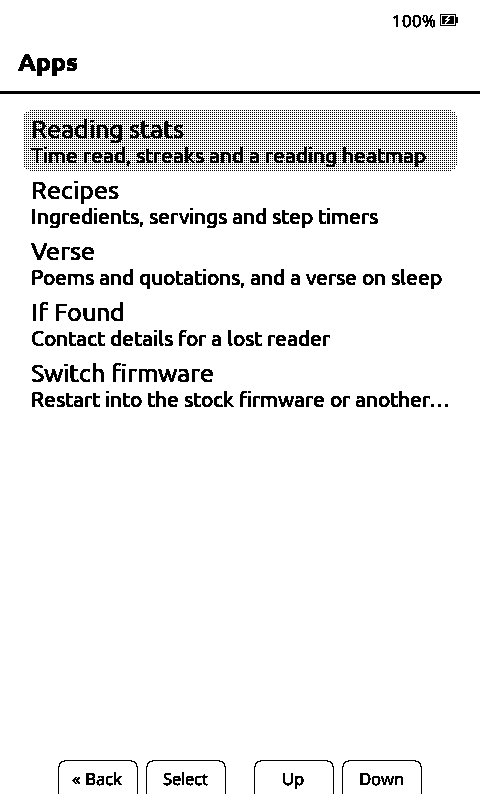
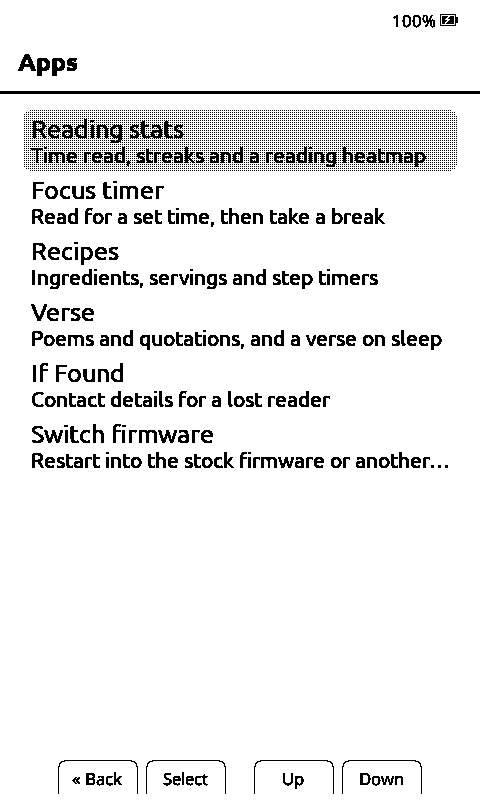
feat(sleep): owner details on every sleep screen
New Display setting puts the first two lines of the If Found note across
the top of any sleep screen. Sleep overlays (this and the stats card) now
share one module; with either on, pictures render in black and white so the
overlay stays crisp. Fixes include grouping that clang-format 21 and 22
disagreed on.

Size: +1,750 B flash.

diff --git a/src/activities/boot_sleep/SleepActivity.cpp b/src/activities/boot_sleep/SleepActivity.cpp
@@ -26,7 +26,6 @@
 #include "CrossPointState.h"
 #include "activities/reader/ReaderUtils.h"
 #include "apps/inkverse/SleepVerse.h"
-#include "apps/stats/SleepStatsCard.h"
 #include "components/UITheme.h"
 #include "fontIds.h"
 #include "images/Logo120.h"
@@ -553,12 +552,13 @@ void SleepActivity::onEnter() {
     GUI.drawPopup(renderer, tr(STR_ENTERING_SLEEP));
   }
 
-  statsCard = SETTINGS.sleepScreen == CrossPointSettings::SLEEP_SCREEN_MODE::CUSTOM_STATS;
+  overlays = inkhome::sleep::current(SETTINGS.sleepScreen == CrossPointSettings::SLEEP_SCREEN_MODE::CUSTOM_STATS);
   switch (SETTINGS.sleepScreen) {
     case (CrossPointSettings::SLEEP_SCREEN_MODE::CUSTOM_STATS):
       return renderCustomSleepScreen();
     case (CrossPointSettings::SLEEP_SCREEN_MODE::VERSE):
       inkverse::drawSleepVerse(renderer);
+      inkhome::sleep::draw(renderer, overlays);
       renderer.displayBuffer(HalDisplay::HALF_REFRESH);
       return;
     case (CrossPointSettings::SLEEP_SCREEN_MODE::BLANK):
@@ -605,7 +605,7 @@ void SleepActivity::renderCustomSleepScreen() const {
   // Inkhome: Xteink .xth/.xtg pictures (including the stock app's /Pushed Images) take turns with BMPs.
   std::string xthPath;
   if (inkhome::wallpaper::pickXth(xthPath, !selectedPath.empty()) &&
-      inkhome::wallpaper::drawXth(renderer, xthPath, statsCard)) {
+      inkhome::wallpaper::drawXth(renderer, xthPath, overlays)) {
     return;
   }
 
@@ -648,7 +648,7 @@ void SleepActivity::renderDefaultSleepScreen() const {
   if (SETTINGS.sleepScreen != CrossPointSettings::SLEEP_SCREEN_MODE::LIGHT) {
     renderer.invertScreen();
   }
-  if (statsCard) inkhome::stats::drawSleepCard(renderer);
+  inkhome::sleep::draw(renderer, overlays);
 
   renderer.displayBuffer(HalDisplay::HALF_REFRESH);
 }
@@ -666,7 +666,7 @@ void SleepActivity::renderBitmapSleepScreen(const Bitmap& bitmap, const bool pre
   LOG_DBG("SLP", "drawing to %d x %d", x, y);
   if (!preserveBackground) renderer.clearScreen();
 
-  const bool hasGreyscale = !statsCard && bitmap.hasGreyscale() &&
+  const bool hasGreyscale = !overlays.any() && bitmap.hasGreyscale() &&
                             (preserveBackground || SETTINGS.sleepScreenCoverFilter ==
                                                        CrossPointSettings::SLEEP_SCREEN_COVER_FILTER::NO_FILTER);
 
@@ -679,7 +679,7 @@ void SleepActivity::renderBitmapSleepScreen(const Bitmap& bitmap, const bool pre
       SETTINGS.sleepScreenCoverFilter == CrossPointSettings::SLEEP_SCREEN_COVER_FILTER::INVERTED_BLACK_AND_WHITE) {
     renderer.invertScreen();
   }
-  if (statsCard) inkhome::stats::drawSleepCard(renderer);
+  inkhome::sleep::draw(renderer, overlays);
 
   const bool absolute = hasGreyscale && renderer.grayscaleCapabilities(sleepGrayscaleMode(renderer)).supported();
   if (absolute) {

diff --git a/src/inkhome/SleepOverlays.cpp b/src/inkhome/SleepOverlays.cpp
@@ -1,0 +1,67 @@
+#include "SleepOverlays.h"
+
+#include <GfxRenderer.h>
+#include <I18n.h>
+
+#include <algorithm>
+#include <string>
+
+#include "CrossPointSettings.h"
+#include "apps/iffound/OwnerNote.h"
+#include "apps/stats/SleepStatsCard.h"
+#include "fontIds.h"
+
+namespace inkhome::sleep {
+
+namespace {
+
+constexpr int PADDING = 10;
+constexpr int MAX_LINES = 2;
+
+// "If found: <first line>" plus the next non-empty line, in a white band
+// with a rule under it, across the top of the screen.
+void drawOwnerStrip(GfxRenderer& renderer) {
+  const std::string note = iffound::ownerNote();
+  std::string lines[MAX_LINES];
+  int count = 0;
+  size_t pos = 0;
+  while (pos < note.size() && count < MAX_LINES) {
+    size_t end = note.find('\n', pos);
+    if (end == std::string::npos) end = note.size();
+    std::string line = note.substr(pos, end - pos);
+    pos = end + 1;
+    if (line.find_first_not_of(" \t") == std::string::npos) continue;
+    lines[count++] = std::move(line);
+  }
+  if (count == 0) return;
+
+  const int width = renderer.getScreenWidth();
+  const int lineHeight = renderer.getLineHeight(SMALL_FONT_ID);
+  const int height = PADDING * 2 + lineHeight * count;
+  renderer.fillRect(0, 0, width, height, false);
+  renderer.drawLine(0, height, width, height);
+  std::string first = std::string(tr(STR_OWNER_STRIP_PREFIX)) + " " + lines[0];
+  for (int i = 0; i < count; ++i) {
+    const std::string text = renderer.truncatedText(SMALL_FONT_ID, (i == 0 ? first : lines[i]).c_str(),
+                                                    width - PADDING * 2, i == 0 ? EpdFontFamily::BOLD
+                                                                                : EpdFontFamily::REGULAR);
+    renderer.drawCenteredText(SMALL_FONT_ID, PADDING + i * lineHeight, text.c_str(), true,
+                              i == 0 ? EpdFontFamily::BOLD : EpdFontFamily::REGULAR);
+  }
+}
+
+}  // namespace
+
+Overlays current(const bool customStatsMode) {
+  Overlays o;
+  o.statsCard = customStatsMode;
+  o.ownerStrip = SETTINGS.sleepOwnerStrip != 0;
+  return o;
+}
+
+void draw(GfxRenderer& renderer, const Overlays& overlays) {
+  if (overlays.statsCard) stats::drawSleepCard(renderer);
+  if (overlays.ownerStrip) drawOwnerStrip(renderer);
+}
+
+}  // namespace inkhome::sleep

diff --git a/src/inkhome/XthWallpaper.cpp b/src/inkhome/XthWallpaper.cpp
@@ -5,11 +5,10 @@
 #include <Logging.h>
 #include <Memory.h>
 
-#include <Xtc/XtcTypes.h>
 #include <cstring>
 #include <vector>
 
-#include "apps/stats/SleepStatsCard.h"
+#include "Xtc/XtcTypes.h"
 
 namespace inkhome::wallpaper {
 
@@ -56,7 +55,7 @@ bool pickXth(std::string& outPath, const bool bmpAvailable) {
   return true;
 }
 
-bool drawXth(GfxRenderer& renderer, const std::string& path, const bool withStatsCard) {
+bool drawXth(GfxRenderer& renderer, const std::string& path, const sleep::Overlays& overlays) {
   HalFile file;
   if (!Storage.openFileForRead("XTH", path.c_str(), file)) return false;
   xtc::XtgPageHeader header{};
@@ -115,9 +114,9 @@ bool drawXth(GfxRenderer& renderer, const std::string& path, const bool withStat
   };
 
   renderer.clearScreen();
-  if (!twoBit || withStatsCard) {
+  if (!twoBit || overlays.any()) {
     drawWhere([](uint8_t v, int x, int y) { return ditherBlack(v, x, y); }, true);
-    if (withStatsCard) inkhome::stats::drawSleepCard(renderer);
+    sleep::draw(renderer, overlays);
     renderer.displayBuffer(HalDisplay::HALF_REFRESH);
     LOG_DBG("XTH", "Sleep picture %s (black and white)", path.c_str());
     return true;

diff --git a/src/inkhome/XthWallpaper.h b/src/inkhome/XthWallpaper.h
@@ -2,6 +2,8 @@
 
 #include <string>
 
+#include "SleepOverlays.h"
+
 class GfxRenderer;
 
 // Sleep wallpapers in Xteink's own .xth (2-bit grey) and .xtg (1-bit)
@@ -14,10 +16,10 @@ namespace inkhome::wallpaper {
 bool pickXth(std::string& outPath, bool bmpAvailable);
 
 // Draws and displays the picture, centred (cropped if larger than the panel).
-// Greyscale uses the same passes as CrossPoint's XTCH reader; withStatsCard
-// renders black and white with dithered greys and draws the stats card on top.
+// Greyscale uses the same passes as CrossPoint's XTCH reader; with overlays
+// on it renders black and white with dithered greys and draws them on top.
 // Peak heap: the whole image (about 100 KB for a full-screen .xth), freed on
 // return. False (nothing displayed) on a bad file or low memory.
-bool drawXth(GfxRenderer& renderer, const std::string& path, bool withStatsCard);
+bool drawXth(GfxRenderer& renderer, const std::string& path, const sleep::Overlays& overlays);
 
 }  // namespace inkhome::wallpaper

diff --git a/src/SettingsList.h b/src/SettingsList.h
@@ -230,6 +230,8 @@ inline std::vector<SettingInfo> getSettingsList(const SdCardFontRegistry* regist
         // --- Display ---
         SettingInfo::Enum(StrId::STR_SLEEP_SCREEN, &CrossPointSettings::sleepScreen, std::move(sleepScreenValues),
                           "sleepScreen", StrId::STR_CAT_DISPLAY),
+        SettingInfo::Toggle(StrId::STR_OWNER_STRIP, &CrossPointSettings::sleepOwnerStrip, "sleepOwnerStrip",
+                            StrId::STR_CAT_DISPLAY),
         SettingInfo::Enum(StrId::STR_SLEEP_COVER_MODE, &CrossPointSettings::sleepScreenCoverMode,
                           {StrId::STR_FIT, StrId::STR_CROP}, "sleepScreenCoverMode", StrId::STR_CAT_DISPLAY),
         SettingInfo::Enum(StrId::STR_SLEEP_COVER_FILTER, &CrossPointSettings::sleepScreenCoverFilter,

diff --git a/src/apps/iffound/IfFoundApp.cpp b/src/apps/iffound/IfFoundApp.cpp
@@ -9,10 +9,12 @@
 #include <iterator>
 
 #include "MappedInputManager.h"
+#include "OwnerNote.h"
 #include "apps/AppPaths.h"
 #include "components/UITheme.h"
 #include "core/IfFoundText.h"
 #include "fontIds.h"
+#include "inkhome/SdState.h"
 
 namespace inkhome::iffound {
 
@@ -57,6 +59,8 @@ bool isBlank(const std::string& line) { return line.find_first_not_of(" \t") == 
 std::unique_ptr<Activity> create(GfxRenderer& renderer, MappedInputManager& mappedInput) {
   return makeUniqueNoThrow<IfFoundActivity>(renderer, mappedInput);
 }
+
+std::string ownerNote() { return inkhome::sdMounted() ? readNote(findNotePath()) : std::string(); }
 
 void IfFoundActivity::onEnter() {
   Activity::onEnter();

diff --git a/src/activities/boot_sleep/SleepActivity.h b/src/activities/boot_sleep/SleepActivity.h
@@ -2,6 +2,7 @@
 #include <string>
 
 #include "activities/Activity.h"
+#include "inkhome/SleepOverlays.h"
 
 class Bitmap;
 class HalFile;
@@ -25,6 +26,6 @@ class SleepActivity final : public Activity {
   void renderBlankSleepScreen() const;
 
   bool fromTimeout = false;
-  // Inkhome: Custom + stats renders the wallpaper in black and white and draws the stats card over it.
-  bool statsCard = false;
+  // Inkhome: stats card and owner strip; when either is on, pictures render in black and white under them.
+  inkhome::sleep::Overlays overlays;
 };

diff --git a/src/inkhome/SleepOverlays.h b/src/inkhome/SleepOverlays.h
@@ -1,0 +1,19 @@
+#pragma once
+
+class GfxRenderer;
+
+// Overlays drawn on top of a sleep screen before it is displayed. When any is
+// on, sleep pictures render in black and white so the overlays stay crisp.
+namespace inkhome::sleep {
+
+struct Overlays {
+  bool statsCard = false;
+  bool ownerStrip = false;
+  bool any() const { return statsCard || ownerStrip; }
+};
+
+// From the sleep mode and settings.
+Overlays current(bool customStatsMode);
+void draw(GfxRenderer& renderer, const Overlays& overlays);
+
+}  // namespace inkhome::sleep

diff --git a/src/CrossPointSettings.h b/src/CrossPointSettings.h
@@ -355,6 +355,8 @@ class CrossPointSettings : public PersistableStore<CrossPointSettings> {
   uint8_t tiltPageTurn = TILT_NORMAL;
   // Inkhome: show minutes left in the chapter beside the page count.
   uint8_t statusBarTimeLeft = 1;
+  // Inkhome: owner's If Found note across the top of every sleep screen.
+  uint8_t sleepOwnerStrip = 0;
   // Master reader-touch toggle on boards with a touch controller.
   uint8_t touchReaderControls = TOUCH_READER_ON;
   // Which gestures turn the page in each direction (PAGE_TURN_GESTURE).

diff --git a/src/components/themes/BaseTheme.cpp b/src/components/themes/BaseTheme.cpp
@@ -1,4 +1,3 @@
-#include "apps/stats/ReadingStatsTracker.h"
 #include "BaseTheme.h"
 
 #include <FreeInkUIGfxRenderer.h>
@@ -15,6 +14,7 @@
 
 #include "I18n.h"
 #include "RecentBooksStore.h"
+#include "apps/stats/ReadingStatsTracker.h"
 #include "components/HeaderBackTapTarget.h"
 #include "components/UIScale.h"
 #include "components/UITheme.h"

diff --git a/src/apps/iffound/OwnerNote.h b/src/apps/iffound/OwnerNote.h
@@ -1,0 +1,12 @@
+#pragma once
+
+#include <string>
+
+// The owner's If Found note (UTF-8, LF line ends), or empty when there is
+// none or no card. Kept apart from IfFoundApp.h so the sleep screen does not
+// include UI headers.
+namespace inkhome::iffound {
+
+std::string ownerNote();
+
+}  // namespace inkhome::iffound

diff --git a/docs/inkhome/TESTING.md b/docs/inkhome/TESTING.md
@@ -96,6 +96,16 @@ to hand before step 1.
       sleep the next verse appears, a different one each time.
 - [ ] Settings, Display, Sleep Screen lists Verse after Custom + stats.
 
+## 11. Batch 1 additions
+- [ ] Reader: after about eight page turns, the status bar shows "~N min"
+      beside the chapter page count. Settings, Reader, Time left in chapter
+      turns it off.
+- [ ] Apps, Focus timer, 15 minutes: your book opens. After 15 minutes of
+      reading a break screen appears; Again restarts, Done returns to the book.
+- [ ] Settings, Display, Owner details on sleep screen = On with
+      `/if_found.txt` on the card: every sleep screen shows "If found:" and
+      your first two lines across the top.
+
 ## Reporting
 If anything hangs, connect USB and capture the serial log
 (`pio device monitor -b 115200`) before restarting; the start of the log
